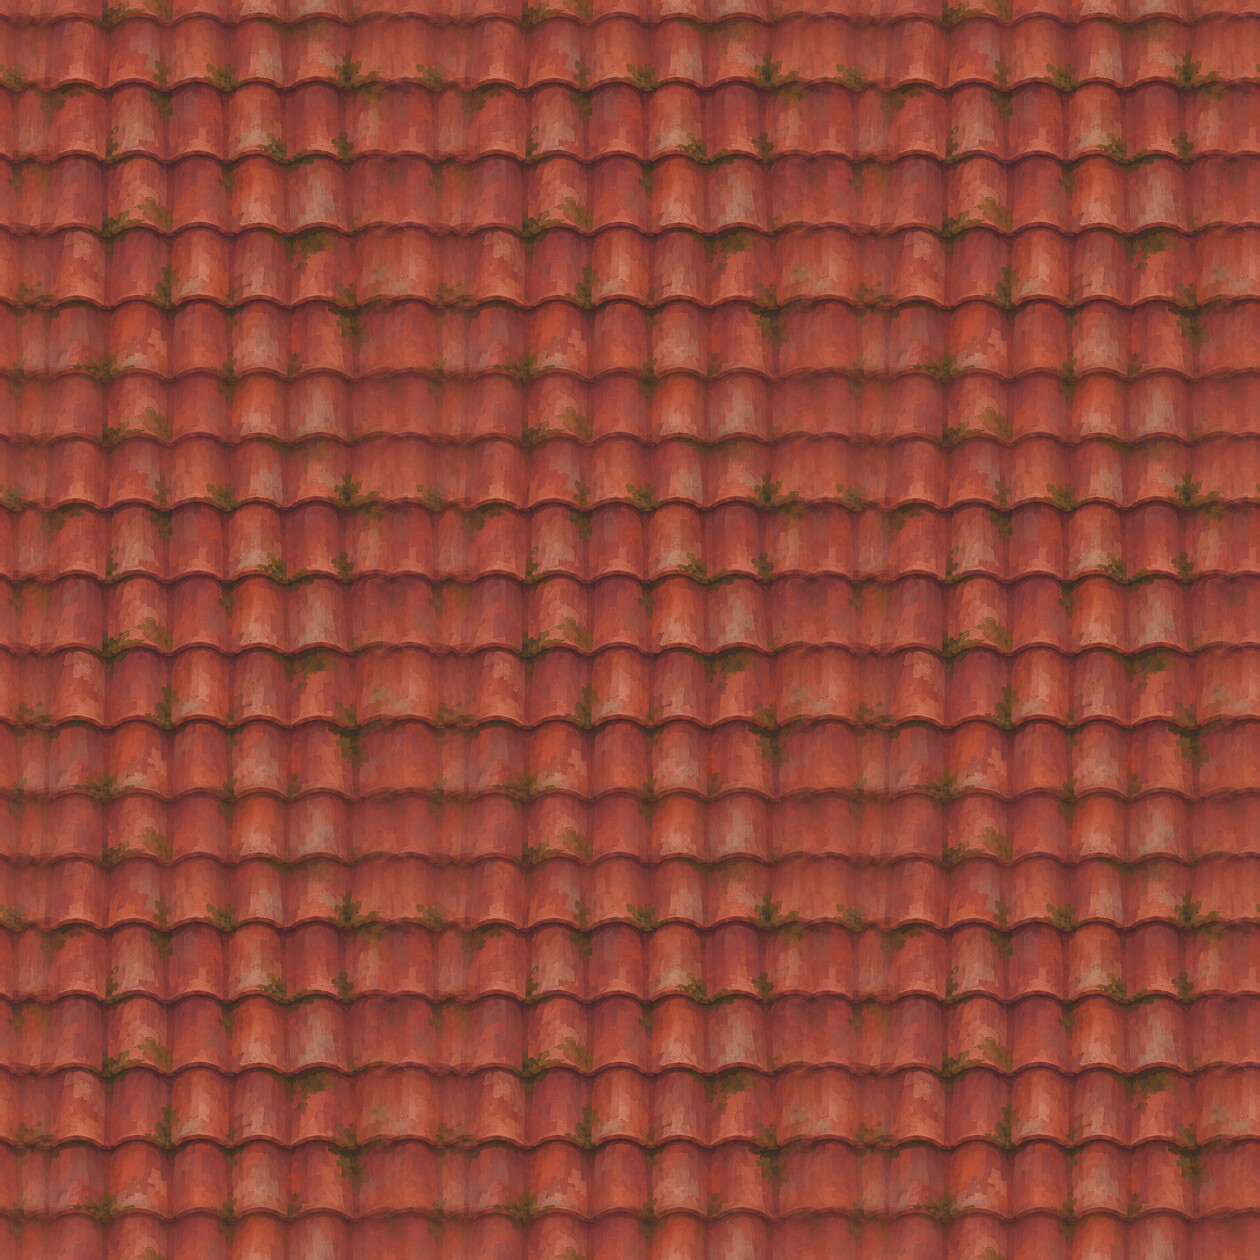
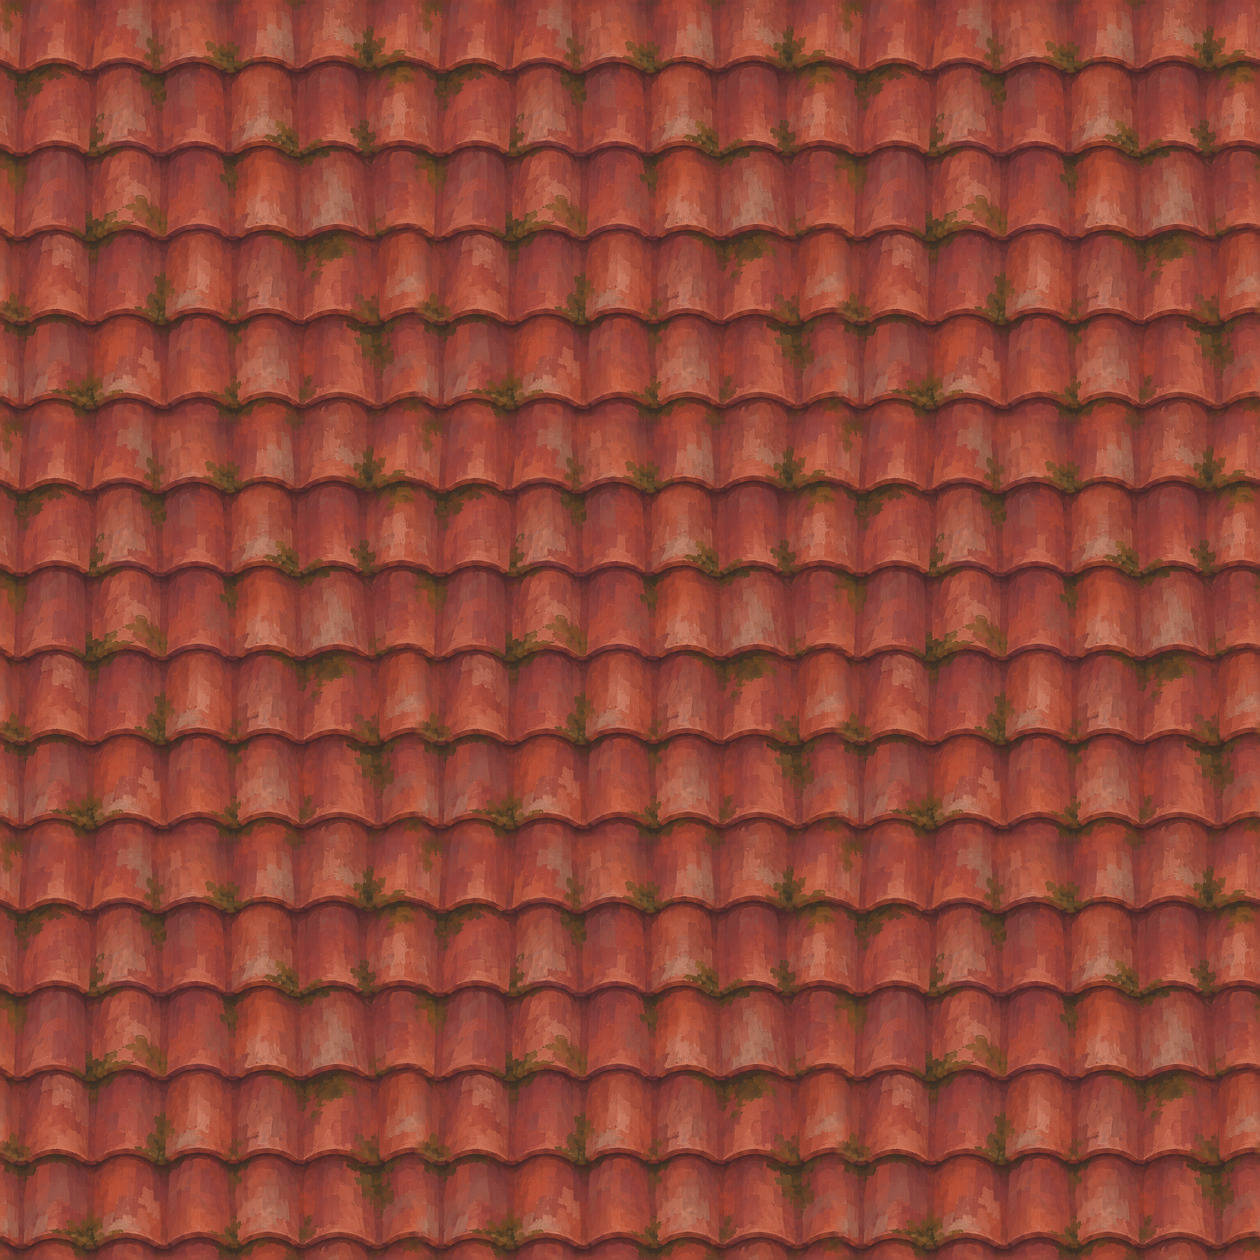
Install art director whole-period roof rewrap

diff --git a/assets/textures/principe/SOURCES.md b/assets/textures/principe/SOURCES.md
@@ -5,7 +5,7 @@
 - `ground_cover.jpg` ← [`ground_cover-v2.jpg`](../../../art/runs/p5-tiles/tiles/ground_cover-v2.jpg); provenance: [`manifest.jsonl`](../../../art/runs/p5-tiles/manifest.jsonl).
 - `leaf_litter.jpg` ← [`leaf_litter-v2.jpg`](../../../art/runs/p5-tiles/tiles/leaf_litter-v2.jpg); provenance: [`manifest.jsonl`](../../../art/runs/p5-tiles/manifest.jsonl).
 - `whitewash.jpg` ← [`whitewash-v2.jpg`](../../../art/runs/p5-tiles/tiles/whitewash-v2.jpg); provenance: [`manifest.jsonl`](../../../art/runs/p5-tiles/manifest.jsonl).
-- `roof_tile.jpg` ← [`roof_tile-v2.jpg`](../../../art/runs/p5-tiles/tiles/roof_tile-v2.jpg); original cross-faded pick retained under the brief's failed-rewrap fallback after two whole-period crops failed `tile.sh --check`; known doubled-ridge artifact remains pending the lead's decision; provenance and both attempts: [`manifest.jsonl`](../../../art/runs/p5-tiles/manifest.jsonl).
+- `roof_tile.jpg` ← re-wrapped [`roof_tile-v2.jpg`](../../../art/runs/p5-tiles/tiles/roof_tile-v2.jpg); installed 2026-11-15 18:55 JST (edd-art): whole-period crop and 16 px opposing-border feather, no half-roll cross-fade; provenance: [`manifest.jsonl`](../../../art/runs/p5-tiles/manifest.jsonl).
 - `brick.jpg` ← [`brick-v1.jpg`](../../../art/runs/p5-tiles/tiles/brick-v1.jpg); provenance: [`manifest.jsonl`](../../../art/runs/p5-tiles/manifest.jsonl).
 - `teak.jpg` ← [`teak-v2.jpg`](../../../art/runs/p5-tiles/tiles/teak-v2.jpg); provenance: [`manifest.jsonl`](../../../art/runs/p5-tiles/manifest.jsonl).
 - `teak_dark.jpg` ← [`teak_dark-v1.jpg`](../../../art/runs/p5-tiles/tiles/teak_dark-v1.jpg); provenance: [`manifest.jsonl`](../../../art/runs/p5-tiles/manifest.jsonl).

diff --git a/art/runs/p5-tiles/REVIEW.md b/art/runs/p5-tiles/REVIEW.md
@@ -13,7 +13,7 @@ Art director picks, 2026-11-15 14:1x JST (edd-art), judged on the 3×3 sheets an
 | ground_cover | 1.25957, 1.28774, #3E5829 | 1.36211, 1.30352, #3E582A | pick: v2 (v1 repeats a heart-leaf motif) |
 | leaf_litter | 1.45736, 1.23085, #58442F | 1.53175, 1.19218, #57432F | pick: v2 (faint cross-fade ghost at the seam; tolerable on the ground) |
 | whitewash | 0.703706, 0.35809, #D1C9B8 | 1.58515, 1.23613, #D1C9B8 | pick: v2 (v1 repeats green stains) |
-| roof_tile | 0.61623, 0.56294, #904739 | 0.612368, 0.587186, #904739 | pick: v2, but rewrap before install: the cross-fade doubles the tile ridge at the seam; crop a whole number of tile periods instead |
+| roof_tile | 0.61623, 0.56294, #904739 | 0.612368, 0.587186, #904739 | pick: v2, but rewrap before install: the cross-fade doubles the tile ridge at the seam; crop a whole number of tile periods instead; re-wrapped 2026-11-15 18:55 JST (edd-art): 0.641818, 0.563404, #8F4739; installed |
 | brick | 0.574272, 0.54108, #97563D | 0.61509, 0.335069, #97563E | pick: v1 (v2 shows vertical cuts) |
 | teak | 0.513671, 1.05665, #6D4B30 | 0.374628, 1.04122, #6D4B31 | pick: v2 (v1 repeats dark knots) |
 | canvas | 0.547963, 0.289008, #CFC3A3 | 1.11891, 1.00262, #CFC3A4 | pick: v2 |
